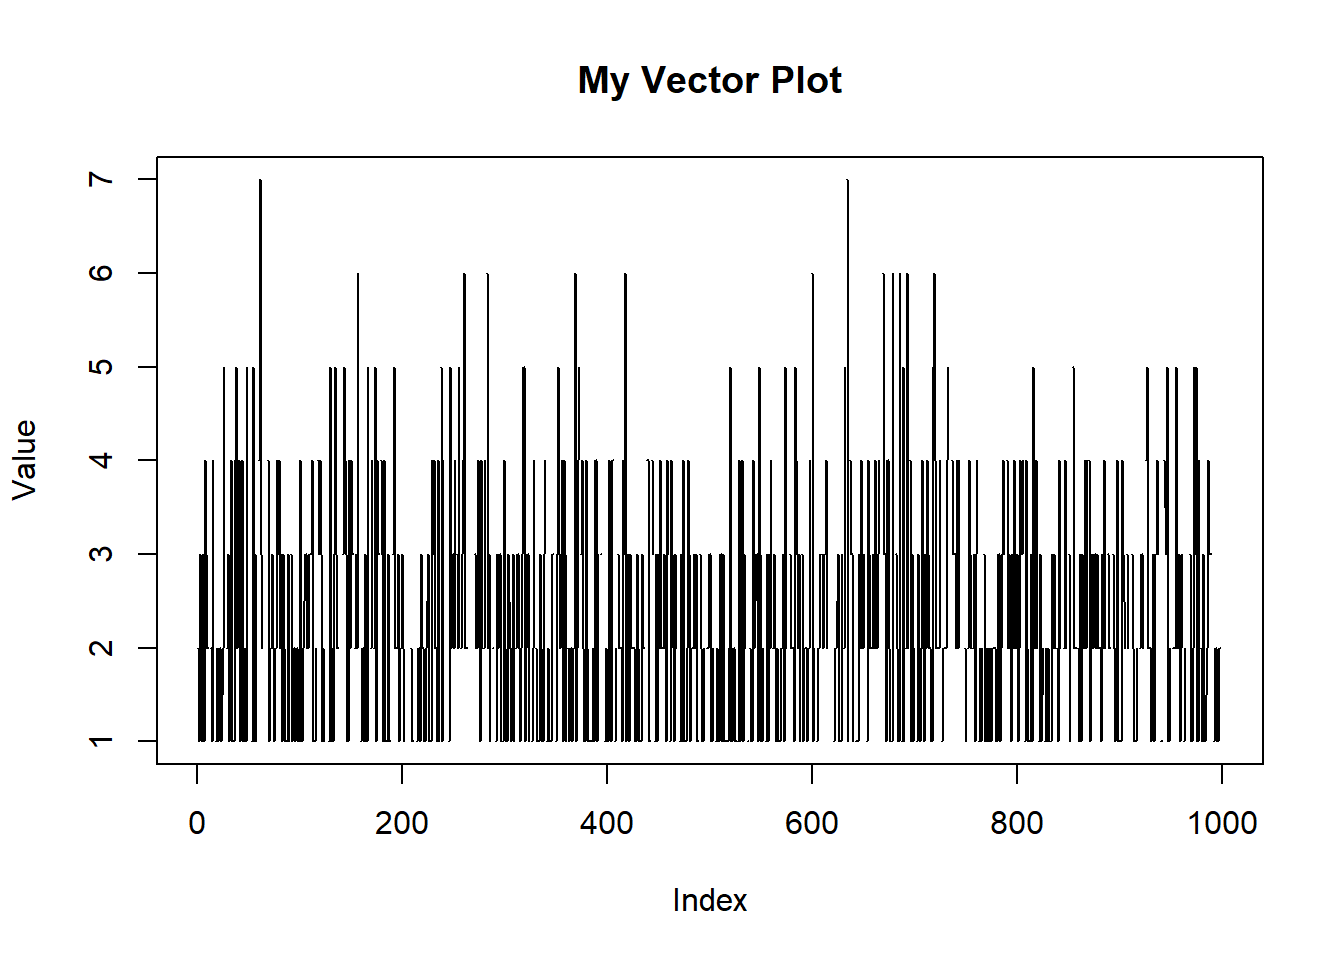
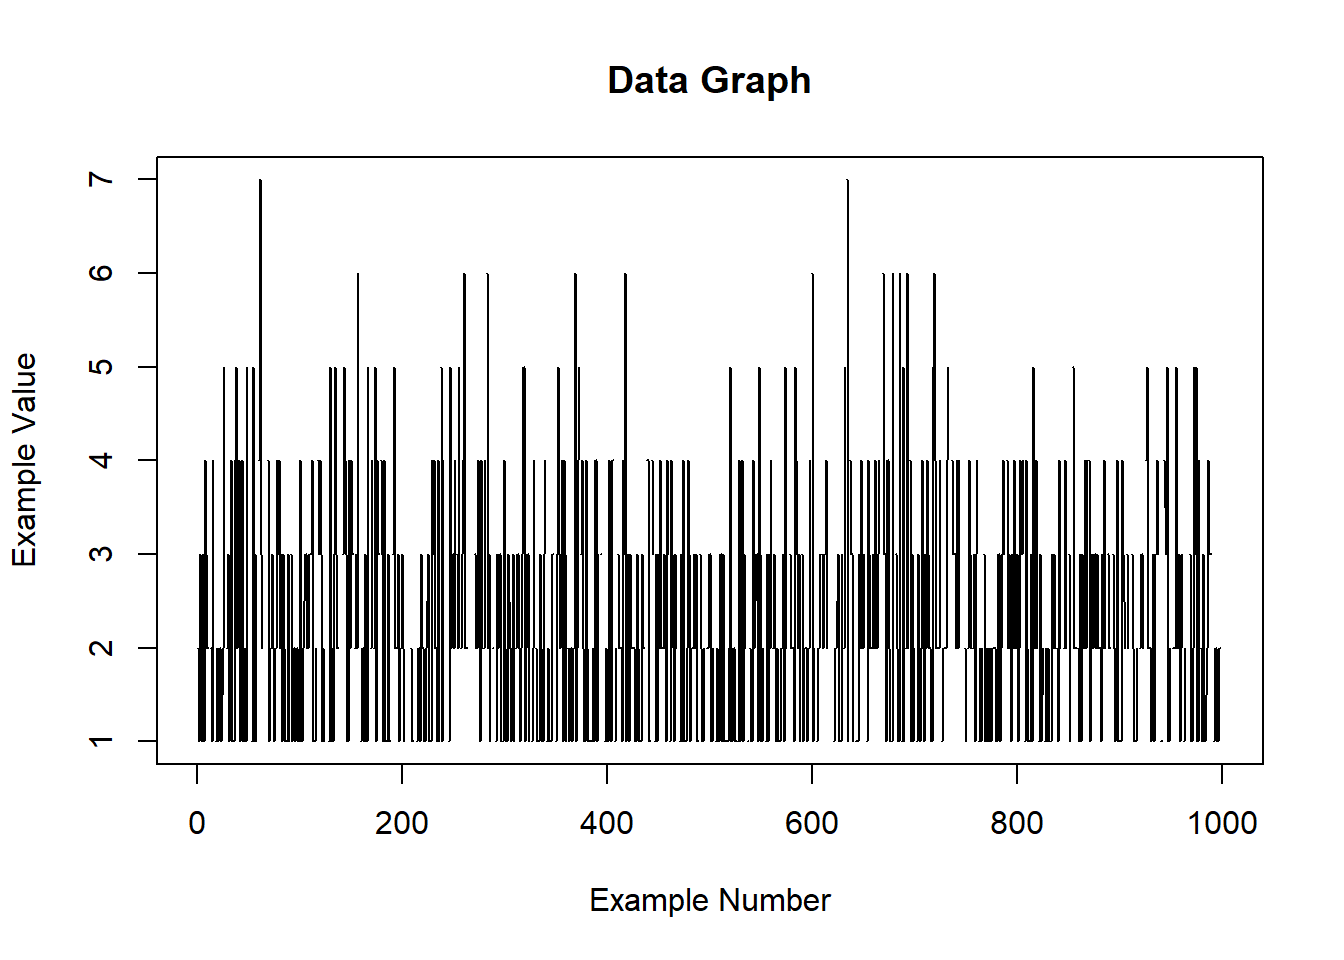
settings updated.

Changed region(s): [[0.4375, 0.9062, 0.625, 0.9688], [0.4062, 0.0625, 0.625, 0.125], [0.0, 0.375, 0.0312, 0.5938]]

diff --git a/docs/assignments/assignment-1.html b/docs/assignments/assignment-1.html
@@ -251,14 +251,16 @@ pre > code.sourceCode > span > a:first-child::before { text-decoration: underlin
 </section>
 <section id="c" class="level2">
 <h2 class="anchored" data-anchor-id="c">(c)</h2>
+<p>There is a Data Graph belongs to na_example data set.</p>
 <div class="cell">
 <div class="sourceCode cell-code" id="cb1"><pre class="sourceCode r code-with-copy"><code class="sourceCode r"><span id="cb1-1"><a href="#cb1-1" aria-hidden="true" tabindex="-1"></a><span class="fu">library</span>(dslabs)</span>
 <span id="cb1-2"><a href="#cb1-2" aria-hidden="true" tabindex="-1"></a><span class="fu">data</span>(<span class="st">"na_example"</span>)</span>
-<span id="cb1-3"><a href="#cb1-3" aria-hidden="true" tabindex="-1"></a><span class="fu">plot</span>(na_example, <span class="at">type =</span> <span class="st">"l"</span>, <span class="at">main =</span> <span class="st">"My Vector Plot"</span>, <span class="at">xlab =</span> <span class="st">"Index"</span>, <span class="at">ylab =</span> <span class="st">"Value"</span>)</span></code><button title="Copy to Clipboard" class="code-copy-button"><i class="bi"></i></button></pre></div>
+<span id="cb1-3"><a href="#cb1-3" aria-hidden="true" tabindex="-1"></a><span class="fu">plot</span>(na_example, <span class="at">type =</span> <span class="st">"l"</span>, <span class="at">main =</span> <span class="st">"Data Graph"</span>, <span class="at">xlab =</span> <span class="st">"Example Number"</span>, <span class="at">ylab =</span> <span class="st">"Example Value"</span>)</span></code><button title="Copy to Clipboard" class="code-copy-button"><i class="bi"></i></button></pre></div>
 <div class="cell-output-display">
 <p><img src="assignment-1_files/figure-html/unnamed-chunk-1-1.png" class="img-fluid" width="672"></p>
 </div>
 </div>
+<p>You can see all the values of the na_example data set in the table below.</p>
 <div class="cell">
 <div class="sourceCode cell-code" id="cb2"><pre class="sourceCode r code-with-copy"><code class="sourceCode r"><span id="cb2-1"><a href="#cb2-1" aria-hidden="true" tabindex="-1"></a><span class="fu">print</span>(na_example)</span></code><button title="Copy to Clipboard" class="code-copy-button"><i class="bi"></i></button></pre></div>
 <div class="cell-output cell-output-stdout">
